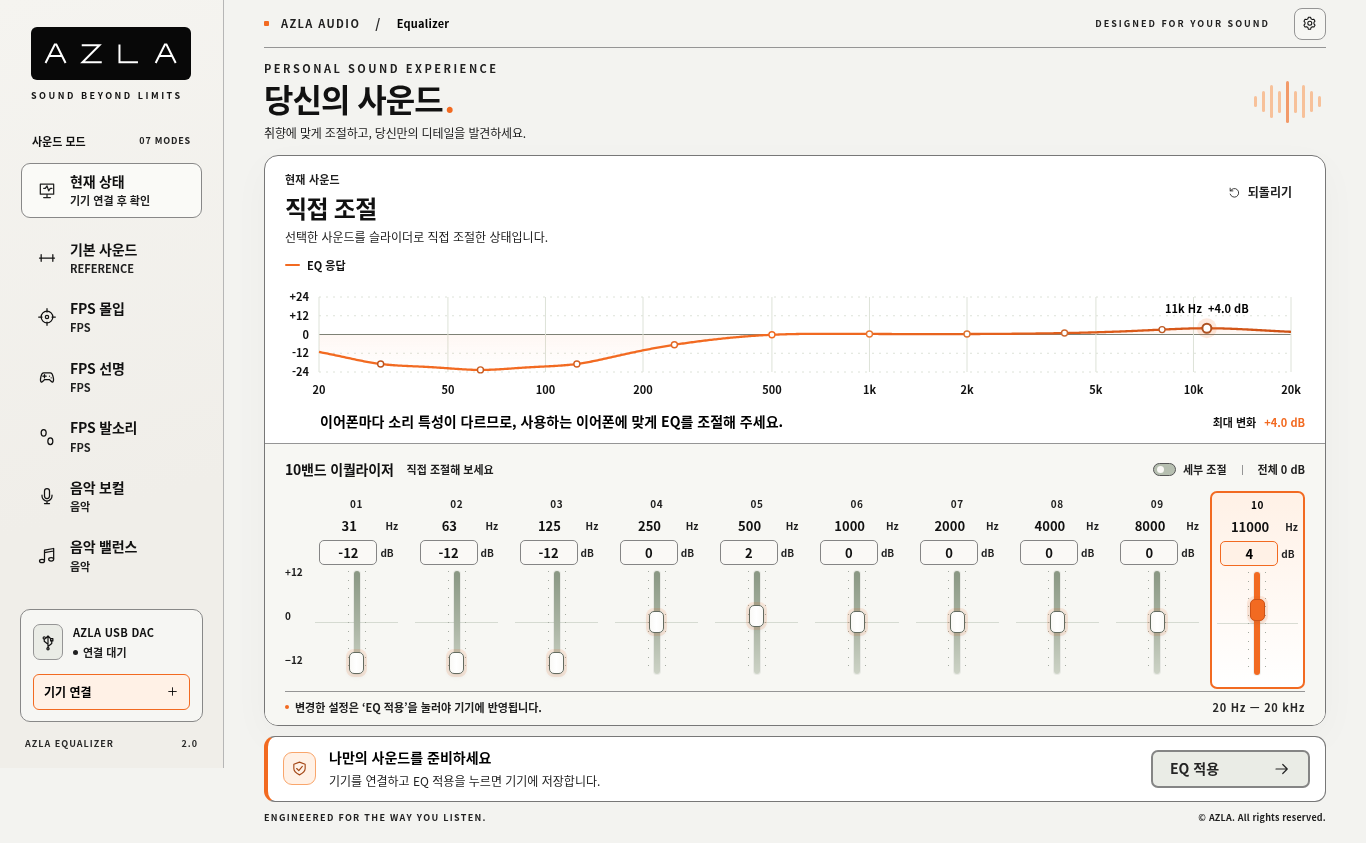
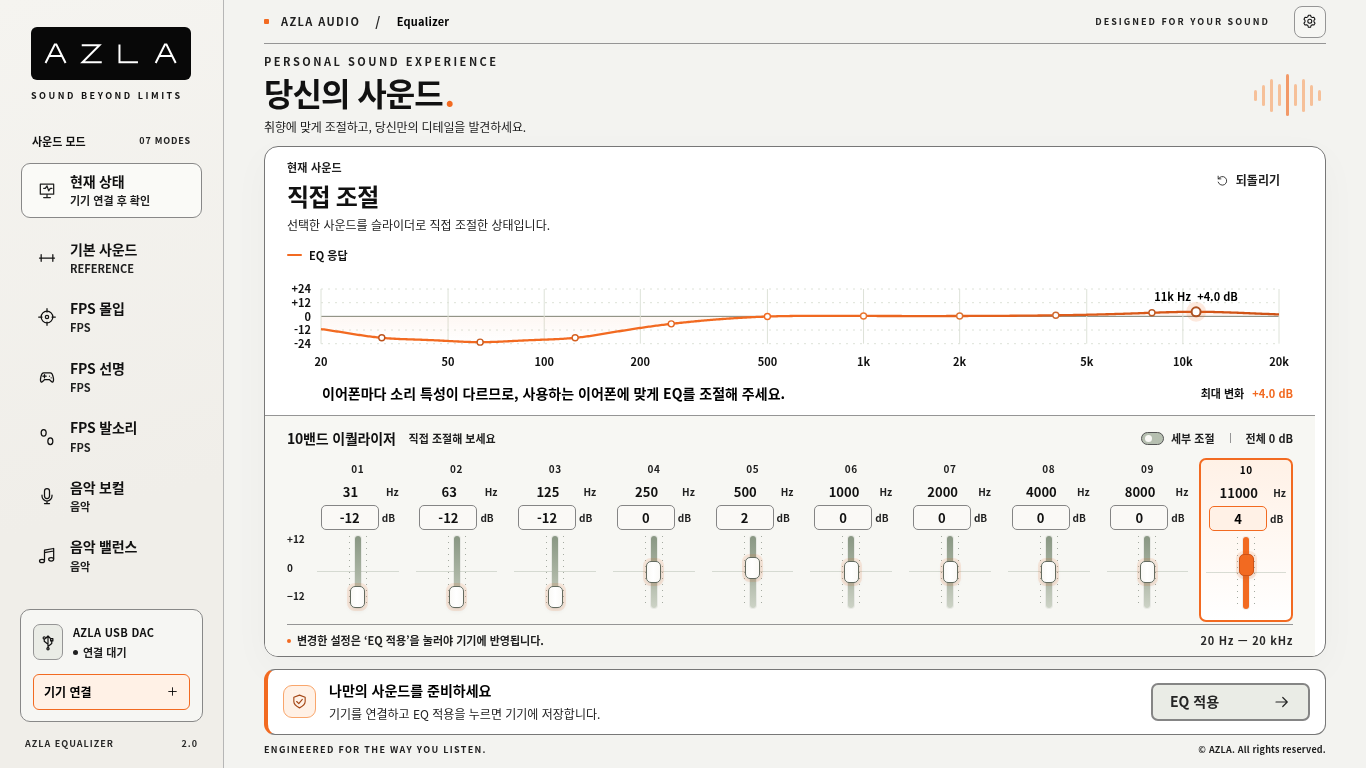
Keep desktop EQ apply action visible without page scrolling

diff --git a/style.css b/style.css
@@ -163,3 +163,36 @@ body{font-weight:500}
 .chart-bottom #modelLabel{flex:1 1 360px;min-width:0;max-width:none;font-size:14px;font-weight:700;line-height:1.65;color:#000000}
 .chart-bottom .peak-label{margin-left:auto}
 @media(max-width:900px){.chart-bottom #modelLabel{flex-basis:100%;font-size:13px}.chart-bottom .peak-label{font-size:11px}}
+
+/* Reserve a desktop footer row so applying EQ never requires page scrolling. */
+@media(min-width:901px){
+ .app-shell{height:100dvh;min-height:0}
+ .sidebar{height:100dvh}
+ .main-content{display:flex;flex-direction:column;height:100dvh;min-height:0;padding-bottom:12px;--desktop-slider-height:clamp(72px,calc(30dvh - 180px),137px)}
+ .topbar,.page-heading,.apply-bar,.bottom-caption{flex-shrink:0}
+ .topbar{height:44px}
+ .page-heading{padding:14px 0}
+ .eyebrow{margin-bottom:5px}
+ .page-heading p{margin-top:5px}
+ .equalizer-panel{display:flex;flex-direction:column;flex:1 1 auto;min-height:0;overflow-y:auto;scrollbar-width:thin;scrollbar-color:var(--hover-border) var(--surface-raised);scrollbar-gutter:stable}
+ .profile-header,.controls-section{flex:0 0 auto}
+ .profile-header{padding:14px 22px 6px}
+ .profile-topline{margin-bottom:4px}
+ .profile-intro p{margin-top:4px}
+ .chart-section{display:flex;flex-direction:column;flex:1 1 auto;min-height:180px;padding:4px 22px 10px}
+ .chart-wrap{flex:1 1 auto;height:auto;min-height:70px}
+ .controls-section{padding:12px 22px 10px}
+ .controls-heading{margin-bottom:8px}
+ .controls-footnote{padding-top:7px;margin-top:2px}
+ .slider-shell,.gain-slider,.band-scale{height:var(--desktop-slider-height)}
+ .slider-shell:before,.slider-shell:after{background:repeating-linear-gradient(to bottom,var(--slider-tick) 0,var(--slider-tick) 1px,transparent 1px,transparent calc(var(--desktop-slider-height)/12))}
+ .apply-bar{position:relative;z-index:1;margin-top:12px}
+ .bottom-caption{margin-top:8px}
+}
+@media(max-height:820px) and (min-width:901px){
+ .page-heading{padding:10px 0}
+ .profile-header{padding-top:12px}
+ .controls-section{padding-top:10px;padding-bottom:8px}
+ .band-column{padding-top:3px;padding-bottom:3px}
+ .chart-section{min-height:174px}
+}

diff --git a/tests/browser_apply_layout.py b/tests/browser_apply_layout.py
@@ -1,0 +1,45 @@
+"""Keep the desktop EQ apply action visible before and after panel scrolling."""
+from pathlib import Path
+from playwright.sync_api import sync_playwright
+
+with sync_playwright() as p:
+    browser=p.chromium.launch(executable_path='/usr/bin/chromium',headless=True,args=['--no-sandbox'])
+    for width,height in [(1920,1080),(1920,900),(1366,768),(1100,720),(1024,600),(901,600)]:
+        page=browser.new_page(viewport={'width':width,'height':height})
+        errors=[]
+        page.on('pageerror',lambda error:errors.append(str(error)))
+        page.goto('http://127.0.0.1:8768')
+        page.wait_for_selector('.band-column')
+        for advanced in [False,True]:
+            if advanced:page.locator('#advancedToggle').check()
+            for scroll in [False,True]:
+                if scroll:
+                    page.locator('.equalizer-panel').evaluate('(el)=>el.scrollTop=el.scrollHeight')
+                    page.locator('.preset-list').evaluate('(el)=>el.scrollTop=el.scrollHeight')
+                result=page.evaluate("""()=>{
+                  const b=document.querySelector('#applyBtn'),panel=document.querySelector('.equalizer-panel');
+                  const r=b.getBoundingClientRect(),pr=panel.getBoundingClientRect();
+                  return {top:r.top,bottom:r.bottom,left:r.left,right:r.right,panelBottom:pr.bottom,
+                    height:innerHeight,width:innerWidth,scrollHeight:document.documentElement.scrollHeight,
+                    scrollWidth:document.documentElement.scrollWidth,
+                    clickable:b.contains(document.elementFromPoint((r.left+r.right)/2,(r.top+r.bottom)/2))};
+                }""")
+                assert 0<=result['top']<result['bottom']<=height,(width,height,advanced,scroll,result)
+                assert result['panelBottom']<=result['top'],('panel overlaps apply button',result)
+                assert result['clickable'],('apply button obscured',result)
+                assert result['scrollWidth']<=width and result['scrollHeight']<=height,(width,height,result)
+        if width in [1920,1366]:
+            page.locator('#advancedToggle').uncheck()
+            page.locator('.equalizer-panel').evaluate('(el)=>el.scrollTop=0')
+            page.locator('.preset-list').evaluate('(el)=>el.scrollTop=0')
+            page.screenshot(path=str(Path('docs/screenshots')/f'AZLA-Apply-Visible-{width}.png'))
+        assert not errors,errors
+        print('PASS:',width,height,'apply button visible; no overlap or page scrolling; advanced controls accessible')
+        page.close()
+    page=browser.new_page(viewport={'width':390,'height':844})
+    page.goto('http://127.0.0.1:8768');page.wait_for_selector('.band-column')
+    page.locator('#applyBtn').scroll_into_view_if_needed()
+    assert page.locator('#applyBtn').is_visible()
+    assert page.evaluate('document.documentElement.scrollWidth<=innerWidth')
+    print('PASS: mobile controls and apply action remain reachable')
+    browser.close()
